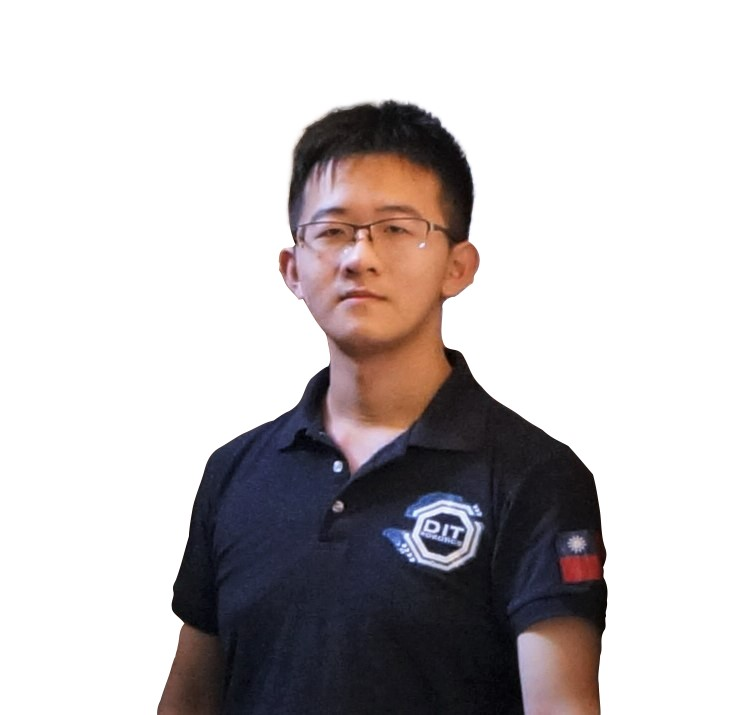
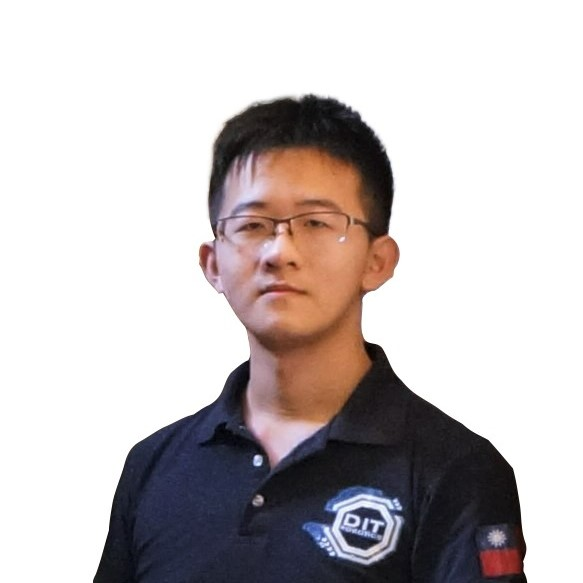
update

Changed region(s): [[0.1544, 0.1235, 0.9262, 1.0]]

diff --git a/index.html b/index.html
@@ -33,7 +33,7 @@
 			<div id="wrapper">
 
 				<!-- Intro -->
-					<section id="intro" class="wrapper style1 fullscreen fade-up">
+					<!-- <section id="intro" class="wrapper style1 fullscreen fade-up">
 						<div class="inner">
 							<div class="intro-grid">
 								<div>
@@ -42,14 +42,27 @@
 								<div>
 									<p></p>
 									<h2>Hello, I am</h2>
-									<h1>Po-Cheng Liu</h1>
+									<h1>Website under construction!</h1>
 									<p>Master's student in Mechanical Engineering<br />
 										with creativity, knowledge, and hands-on experience.</p>
 								</div>
 							</div>
-											
-
 						</div>
+					</section> -->
+
+					<section id="intro" class="wrapper style1 fullscreen fade-up spotlights">
+						<section class="inner">
+							<div>
+								<img class="imgavatar " src="images/avatar.jpg" alt="" data-position="center center" />
+							</div>
+							<div class="content">
+								<p></p>
+								<h2>Hello, I am</h2>
+								<h1>Website Constructing!</h1>
+								<p>Master's student in Mechanical Engineering<br />
+									with creativity, knowledge, and hands-on experience.</p>
+							</div>
+						</section>
 					</section>
 
 				<!-- One -->

diff --git a/assets/css/customized.css b/assets/css/customized.css
@@ -3,11 +3,15 @@
 .imgavatar{
 	width: 300px;
 	border-radius: 150px;
-	margin: 0px 30px;
+	margin: 50px 50px;
 }
 
 .intro-grid{
 	/* margin: 0px 0px 0px 100px; */
 	display: grid;
 	grid-template-columns: 450px 1fr;
+}
+
+.style-edu{
+	background-color: #75269c;
 }
